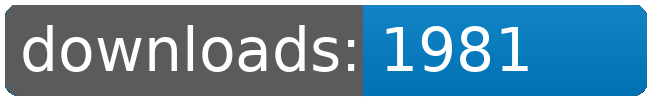
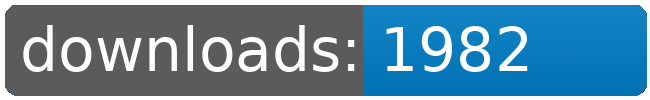
dl log written

Changed region(s): [[0.7692, 0.24, 0.8308, 0.69]]

diff --git a/README.md b/README.md
@@ -21,8 +21,8 @@
 		<td>1925</td>
 		<td>1950</td>
 		<td>1976</td>
-		<td>1981</td>
-		<td>+ 5</td>
+		<td>1982</td>
+		<td>+ 6</td>
 	</tr>
 	<tr>
 		<td>Factory.Outlets</td>
@@ -109,8 +109,8 @@
 		<td></td>
 		<td></td>
 		<td></td>
-		<td>16230</td>
-		<td>26</td>
+		<td>16231</td>
+		<td>27</td>
 	</tr>
 </table>
 </sub></sup>
@@ -157,8 +157,8 @@
 		<td>1925</td>
 		<td>1950</td>
 		<td>1976</td>
-		<td>1981</td>
-		<td>+ 5</td>
+		<td>1982</td>
+		<td>+ 6</td>
 	</tr>
 	<tr>
 		<td>Korunak.Defense.Drones</td>
@@ -223,8 +223,8 @@
 		<td></td>
 		<td></td>
 		<td></td>
-		<td>16230</td>
-		<td>26</td>
+		<td>16231</td>
+		<td>27</td>
 	</tr>
 </table>
 </sub></sup>
